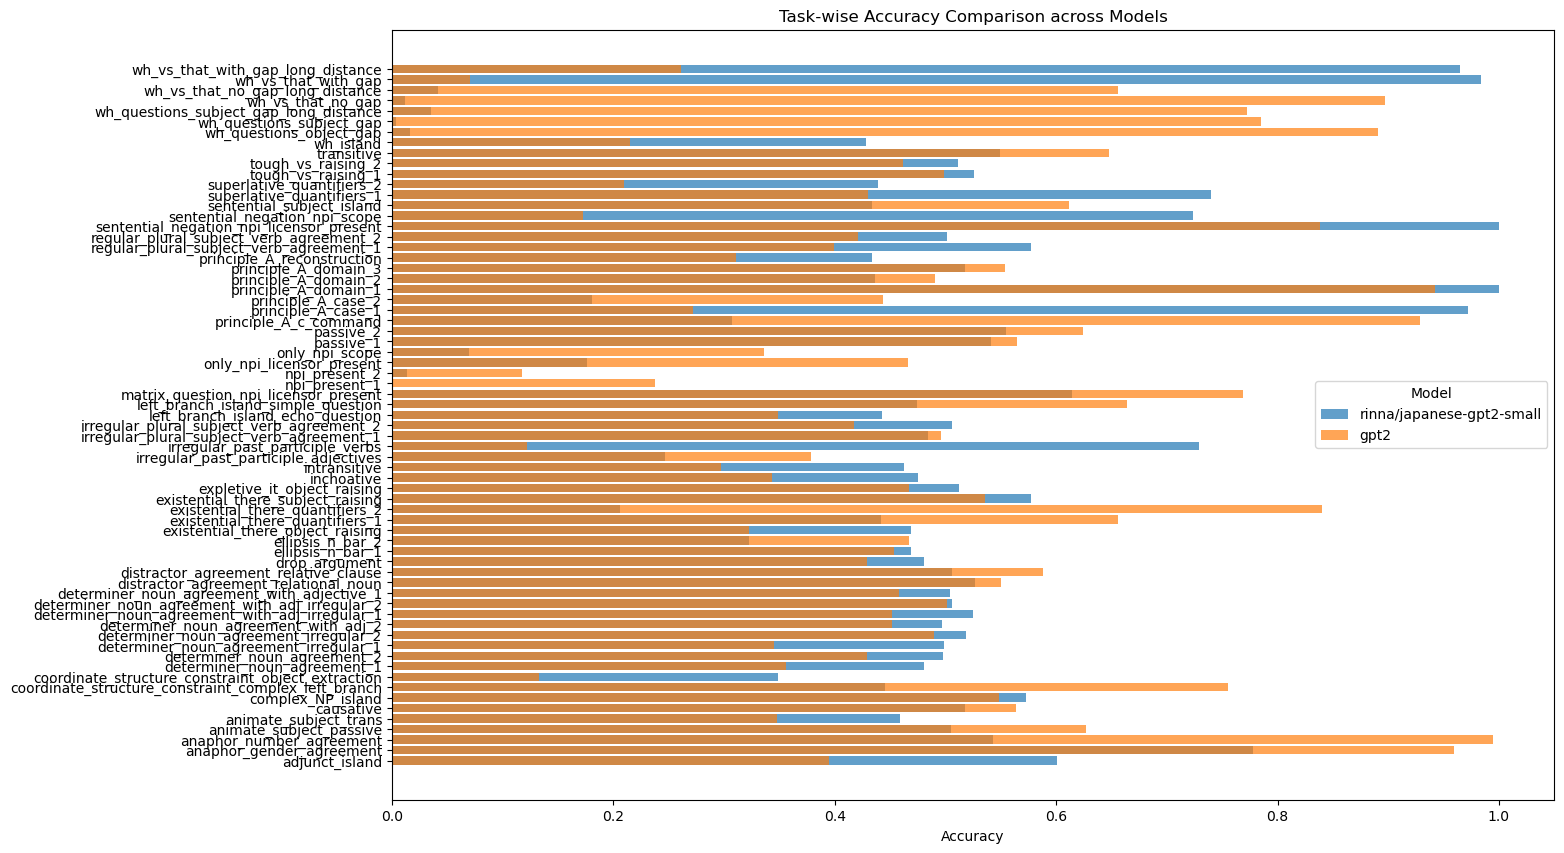
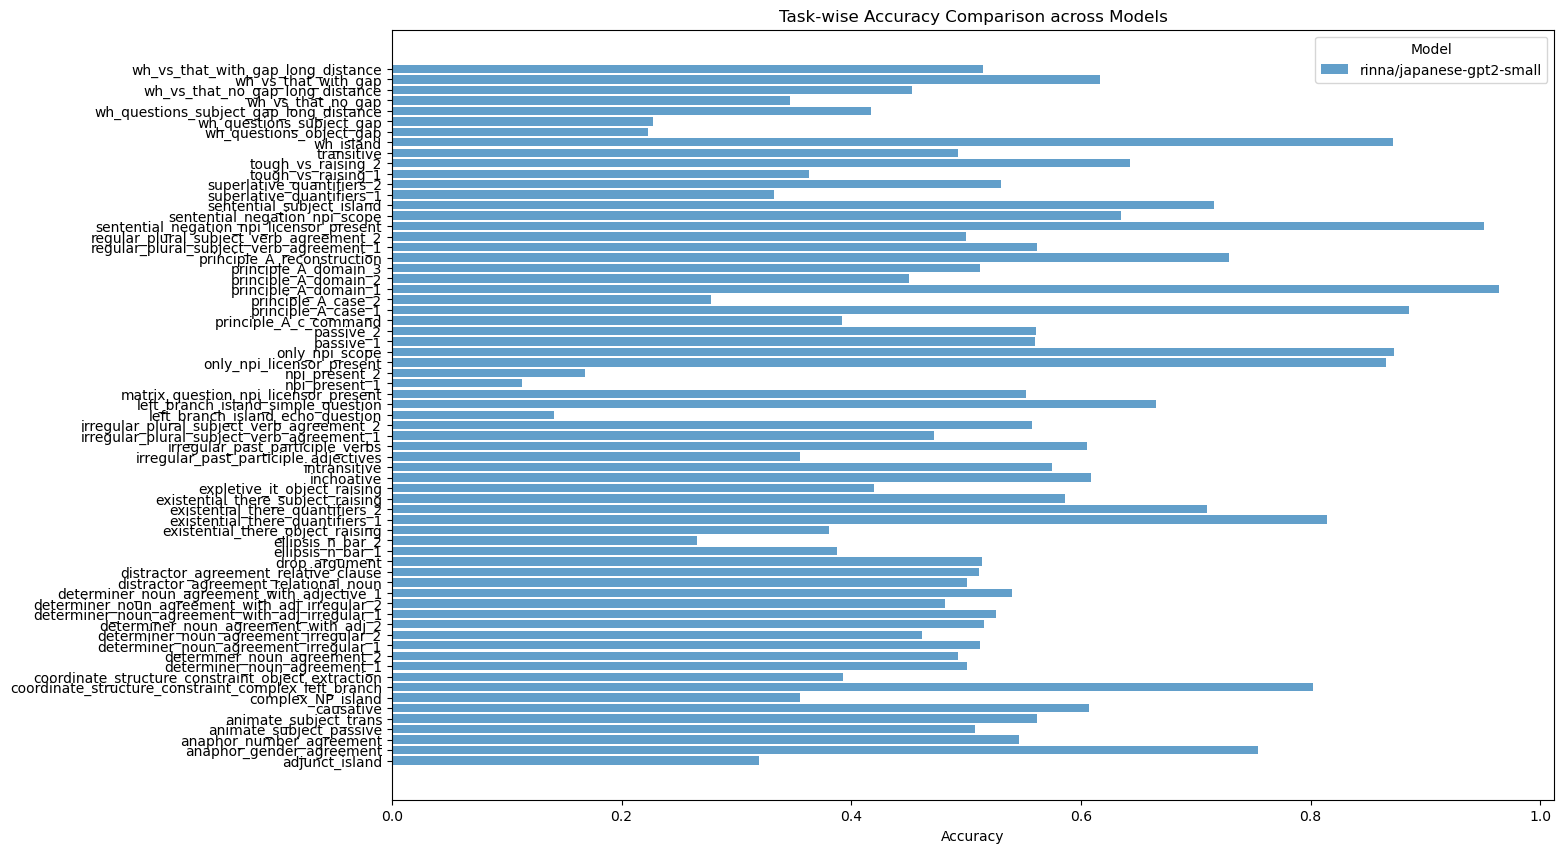
update

Changed region(s): [[0.2455, 0.0305, 0.9821, 0.9144], [0.6752, 0.9449, 0.7059, 0.9754], [0.5217, 0.9449, 0.5524, 0.9754]]

diff --git a/gpt2-small_blimp/test.py b/gpt2-small_blimp/test.py
@@ -5,7 +5,7 @@ import pandas as pd
 # CSVファイルを読み込んでデータフレームを作成
 # df = pd.read_csv('/home/s2410121/proj_LA/gpt2-small_blimp/csv_files/blimp_evaluation_results_complete_en_ger_ita_fre_ko_spa.csv')
 # df = pd.read_csv("/home/s2410121/proj_LA/gpt2-small_blimp/csv_files/blimp_llama3_en_ja.csv")
-df = pd.read_csv("/home/s2410121/proj_LA/blimp_evaluation_results_complete2_gpt2_all.csv")
+df = pd.read_csv("/home/s2410121/proj_LA/gpt2-small_blimp/csv_files/blimp_llama3_en_ja.csv")
 
 # 各モデルごとに正答率の平均を計算します
 overall_accuracy = df.groupby('Model')['Accuracy'].mean().reset_index()

diff --git a/gpt2-small_blimp/visualize_evals_blimp.py b/gpt2-small_blimp/visualize_evals_blimp.py
@@ -40,7 +40,10 @@ multiple_models_acc_comparison(data_gpt2_mo_ja, "gpt2", "gpt2_mo_ja")
 # print(data_gpt2_ALL)
 
 """ llama3 """
-
+file_path_llama3_ALL = "/home/s2410121/proj_LA/blimp_evaluation_results_complete2_llama3_all.csv"
+data_gpt2_llama3_ALL = pd.read_csv(file_path_llama3_ALL)
+acc_comparison(data_gpt2_llama3_ALL, "llama3", "llama3_ALL")
+multiple_models_acc_comparison(data_gpt2_llama3_ALL, "llama3", "llama3_ALL")
 """en_japanese"""
 # file_path_llama3_en_ja = "/home/s2410121/proj_LA/gpt2-small_blimp/csv_files/blimp_llama3_en_ja.csv"
 # data_llama3_en_ja = pd.read_csv(file_path_llama3_en_ja)
